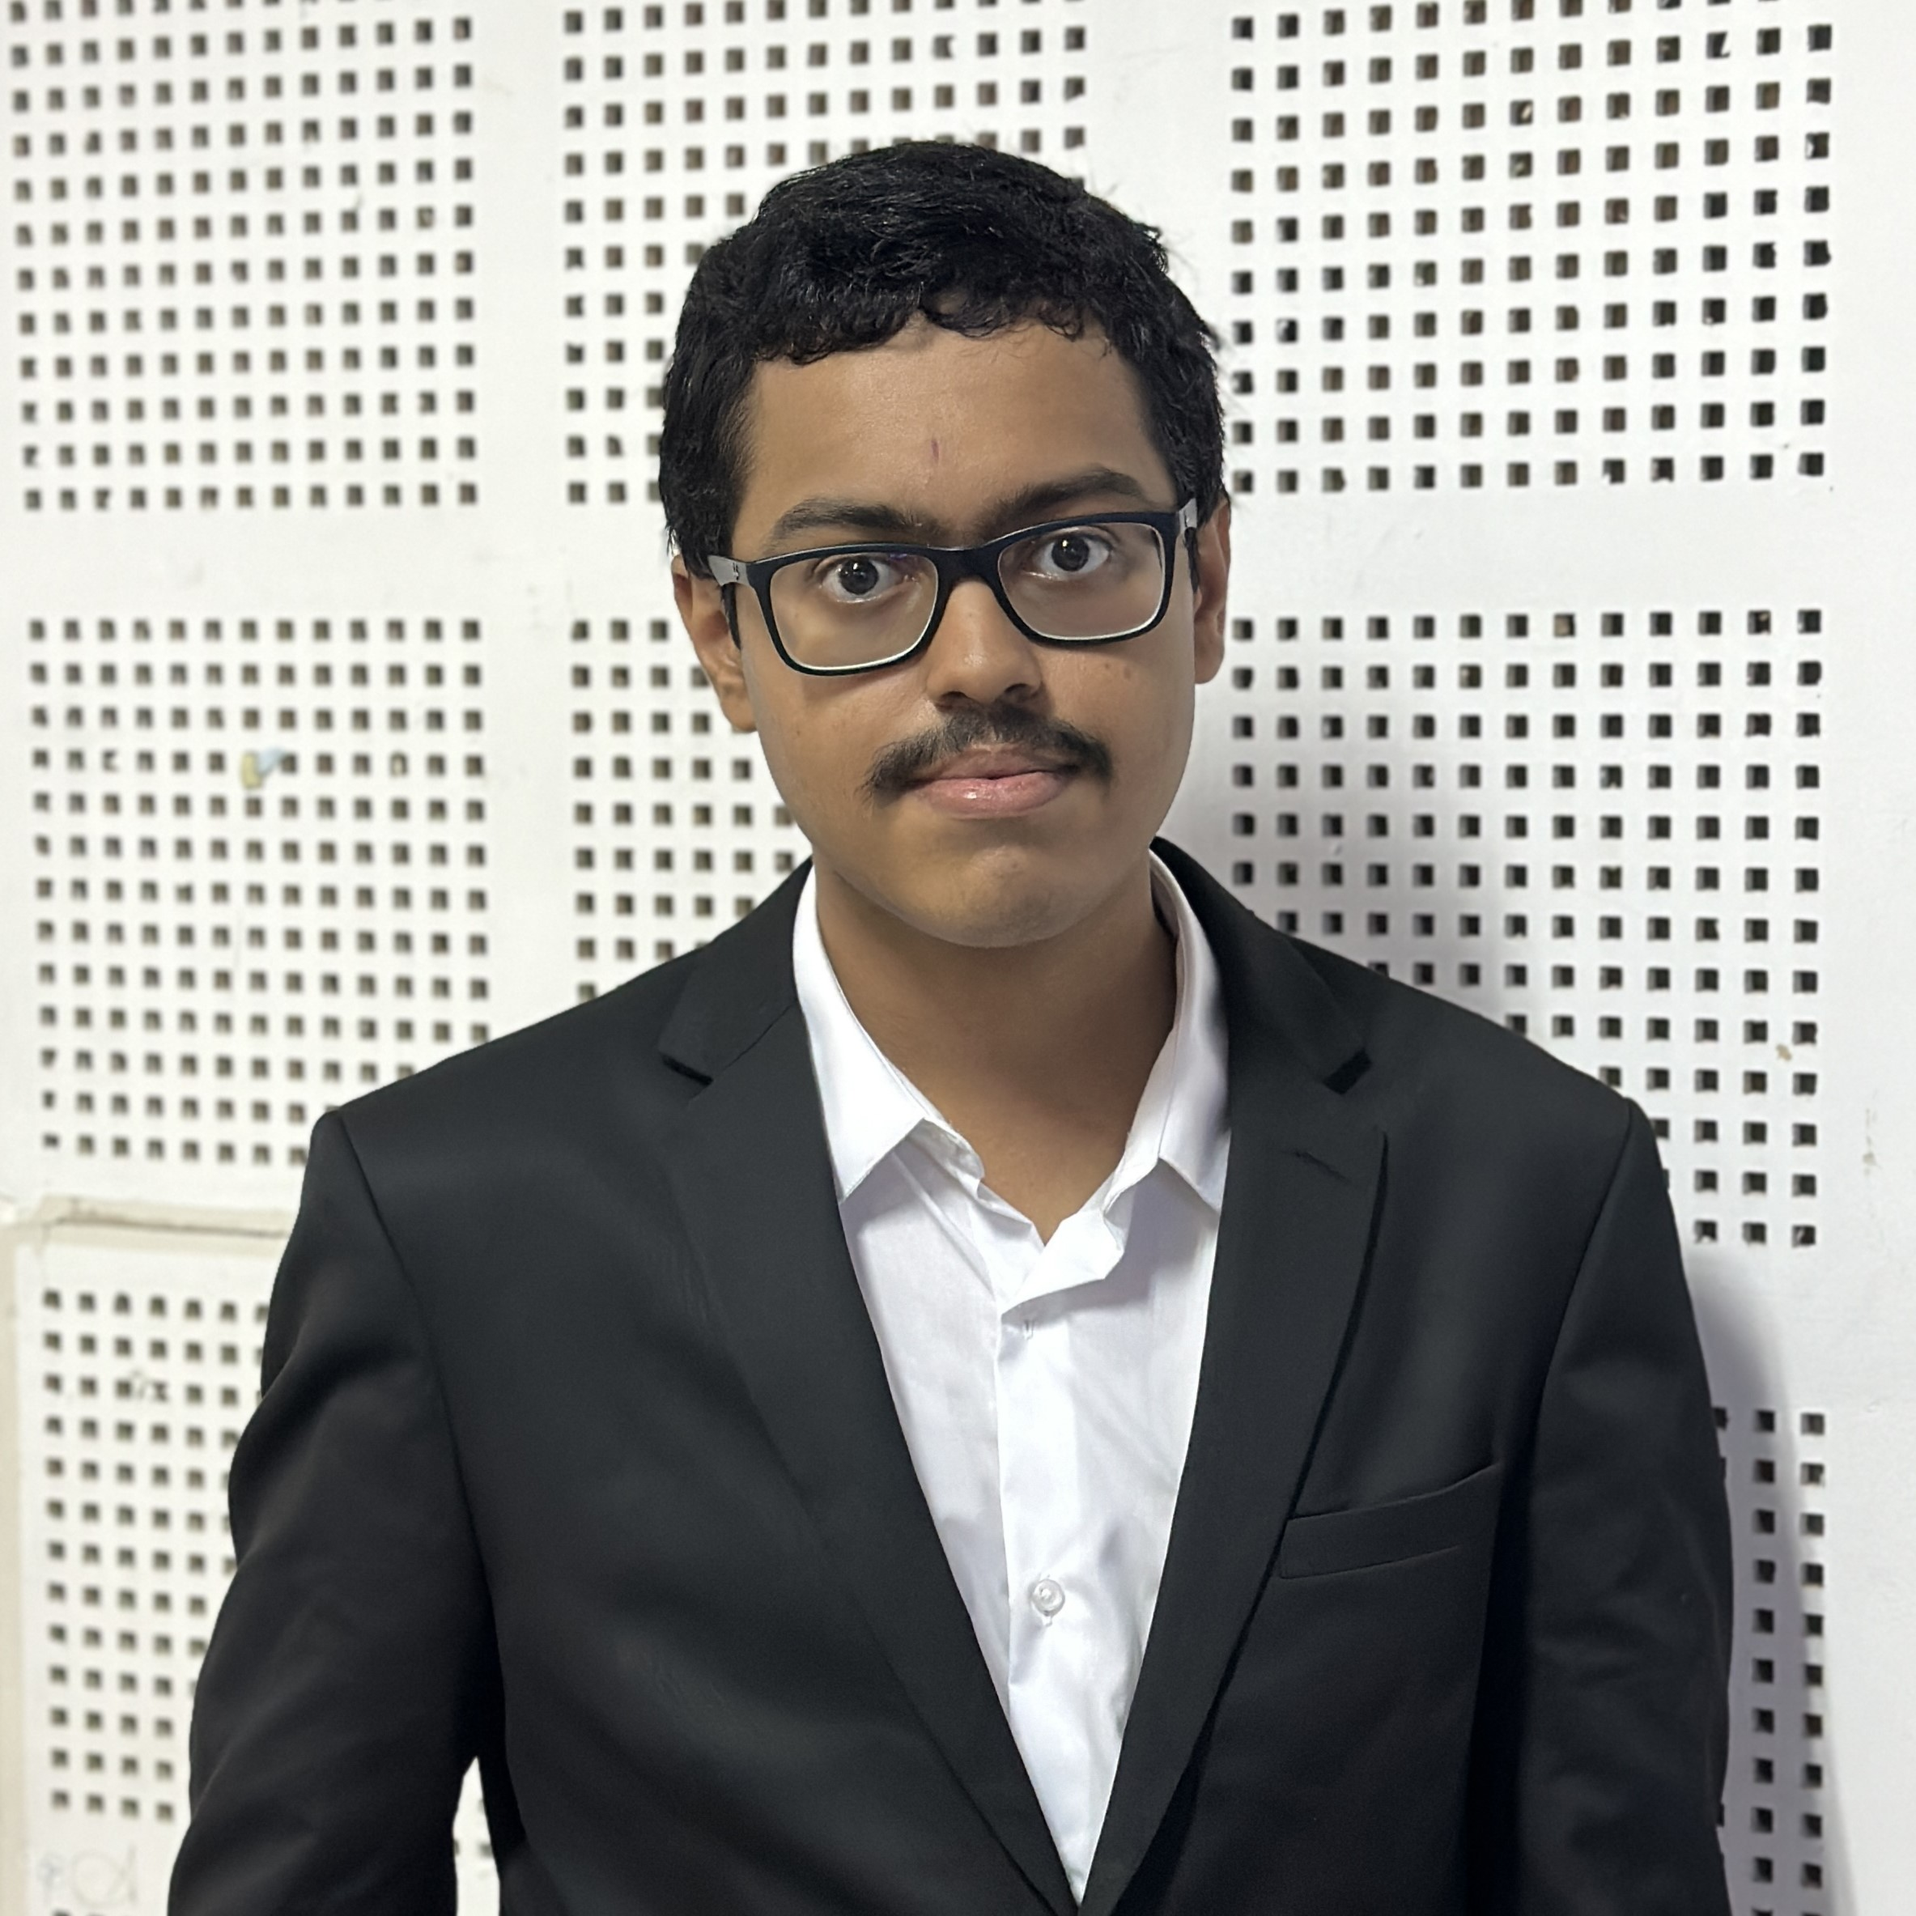
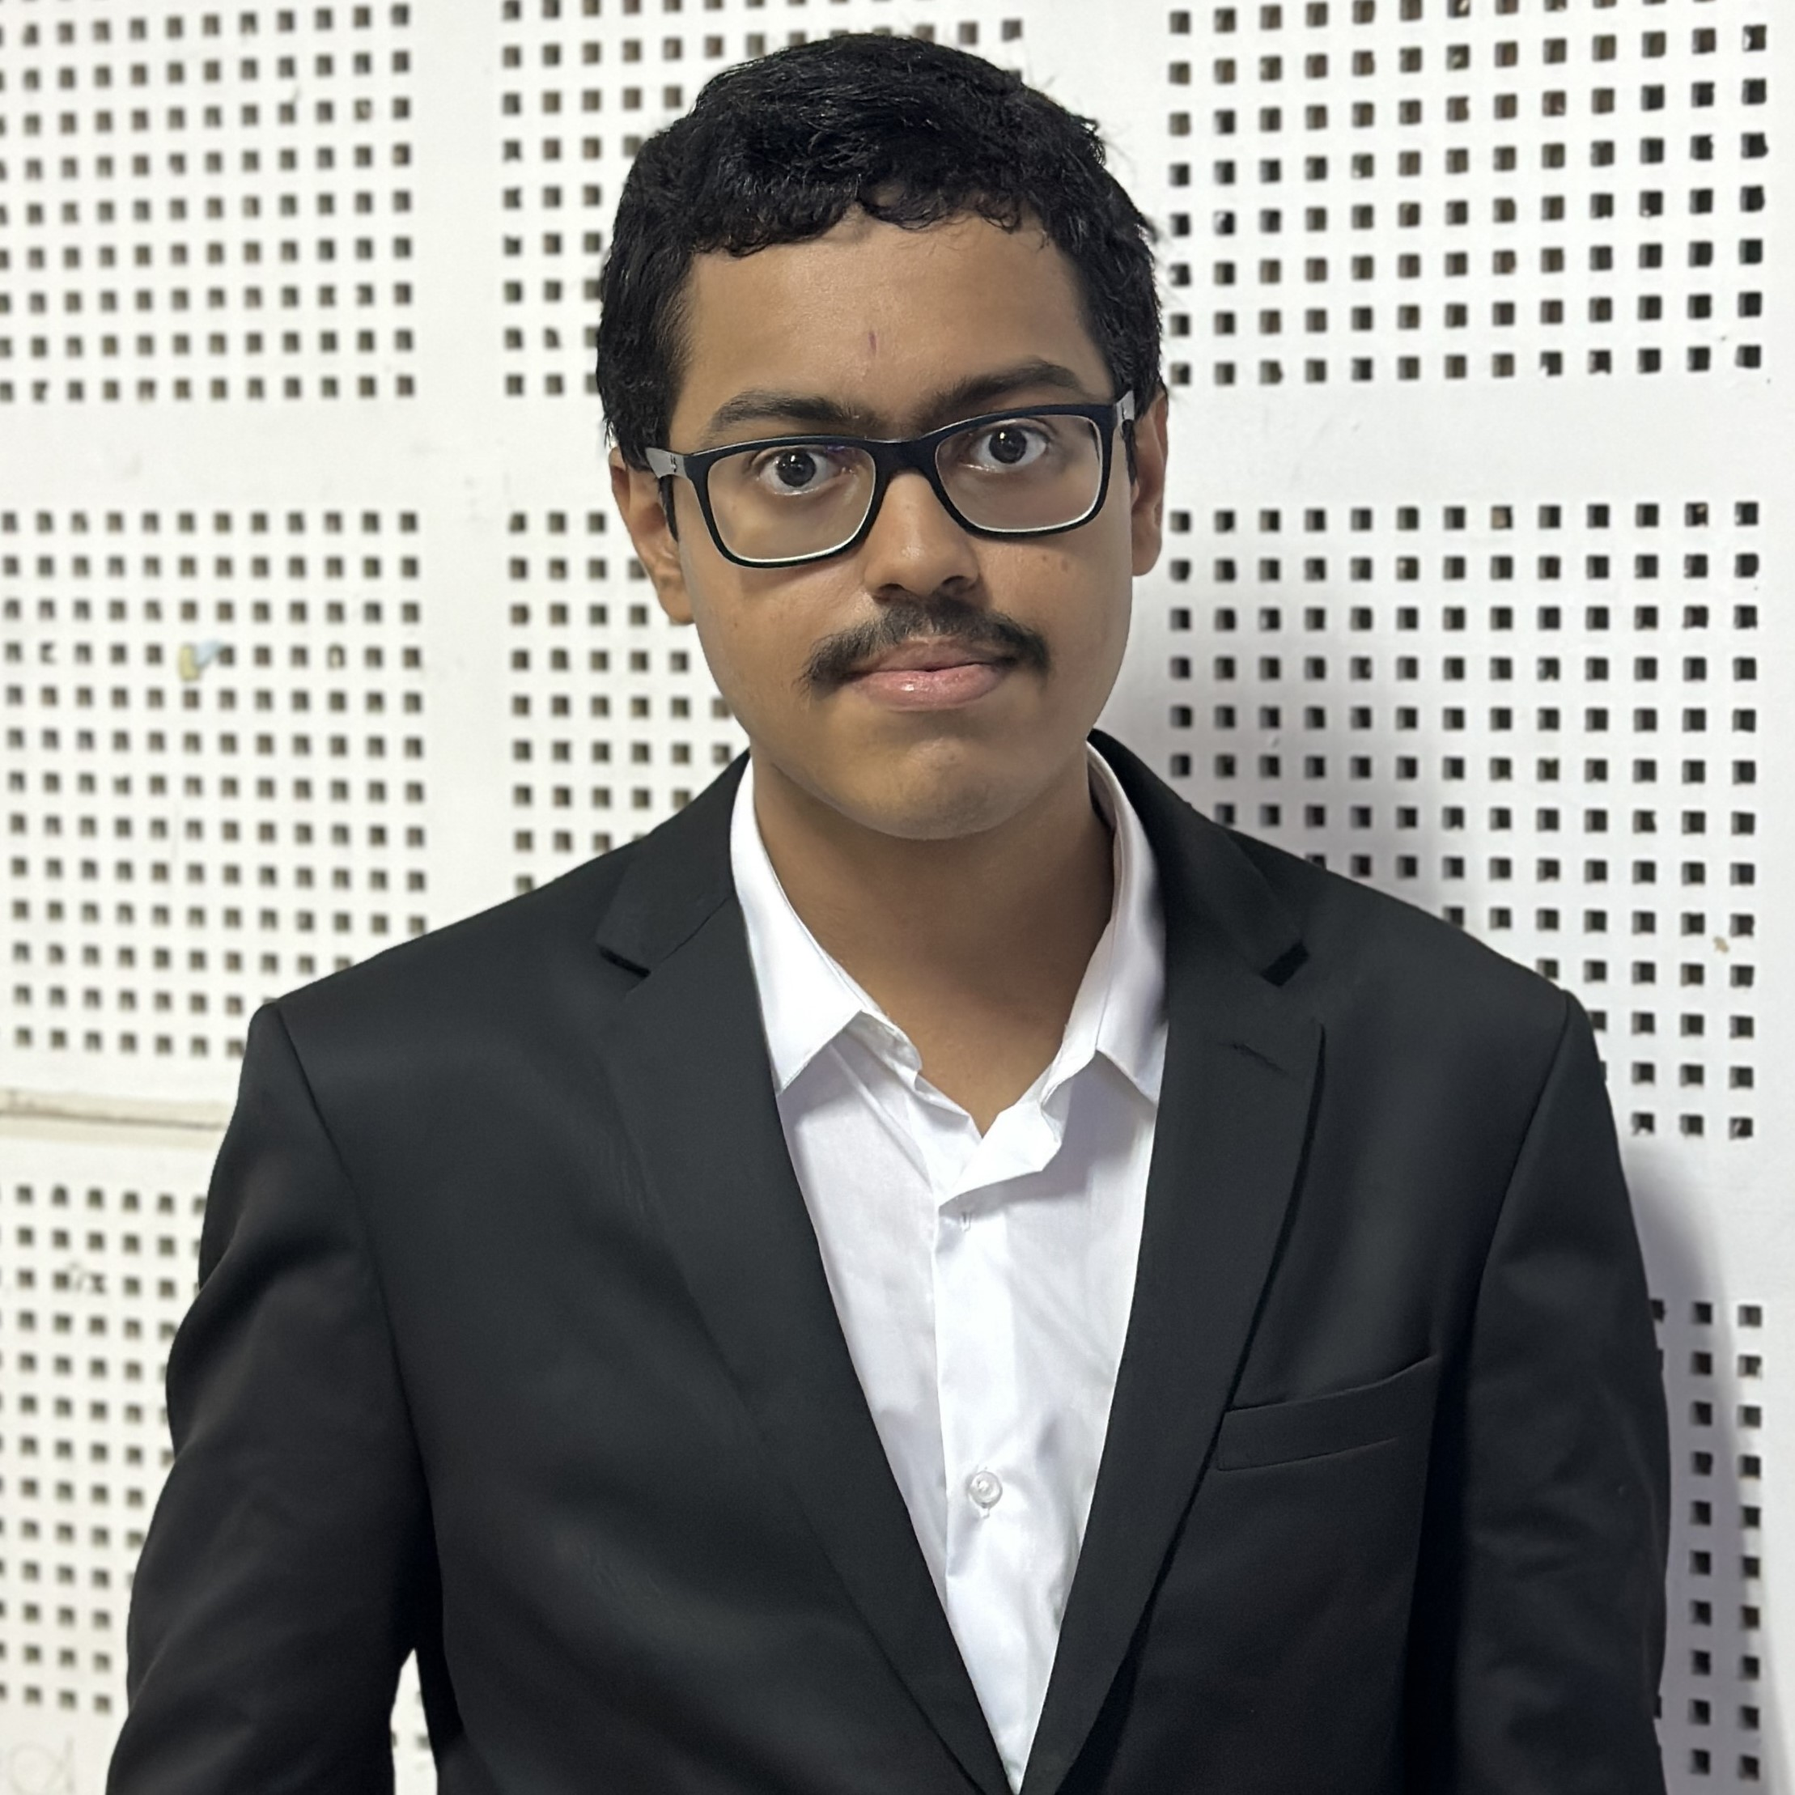
photo change

diff --git a/src/Components/TeamSection/TeamSection.jsx b/src/Components/TeamSection/TeamSection.jsx
@@ -7,7 +7,7 @@ import "./TeamSection.css"
 
 import Jeswin from "../../assets/img/jeswin1.jpg"
 import Porselvan from "../../assets/img/porselvan.jpg"
-import Sakkthivel from "../../assets/img/sakkthivel.jpg"
+import Sakkthivel from "../../assets/img/sakkthi.jpg"
 import Madhav from "../../assets/img/madhav1.jpg"
 import Rishab from "../../assets/img/rishab2.jpg"
 import TeamCard from '../TeamCard/TeamCard';
